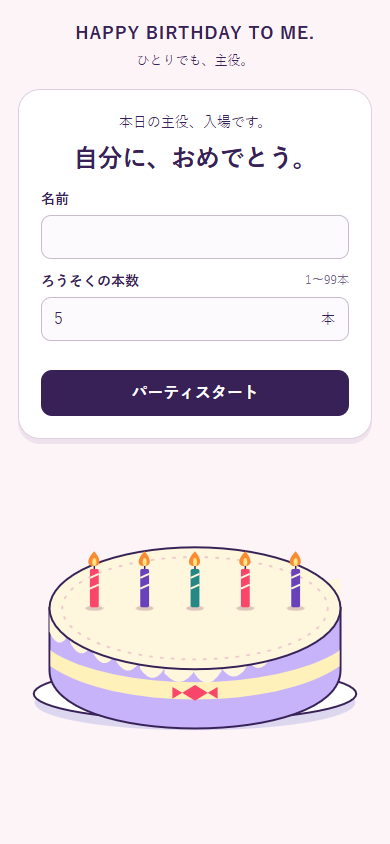
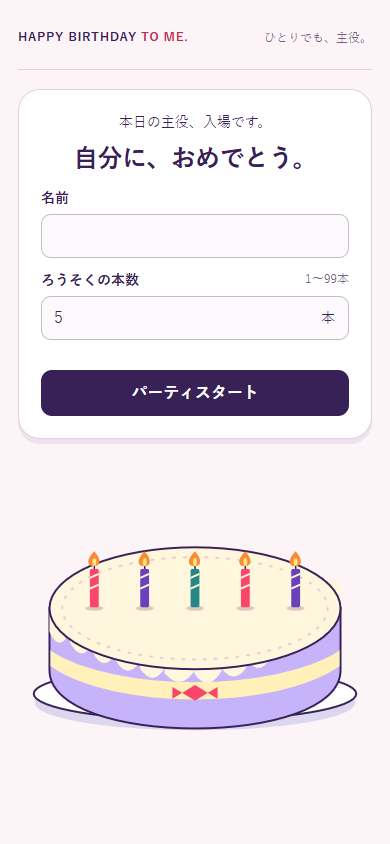
Restore original title and tagline presentation

diff --git a/dist/style.css b/dist/style.css
@@ -17,9 +17,11 @@ button:disabled { cursor: default; }
 button:focus-visible, input:focus-visible { outline: 3px solid var(--purple); outline-offset: 3px; }
 [hidden] { display: none !important; }
 .party { width: min(100%, 430px); margin: auto; padding: max(22px, env(safe-area-inset-top)) 18px max(14px, env(safe-area-inset-bottom)); }
-.brand { text-align: center; margin-bottom: 19px; }
-.brand h1 { margin: 0; font-size: 17px; font-weight: 900; letter-spacing: .055em; line-height: 1.4; }
-.brand p { font-size: 13px; margin: 5px 0 0; line-height: 1.5; }
+.brand { display: flex; justify-content: space-between; align-items: center; gap: 12px; min-height: 48px; padding-bottom: 16px; border-bottom: 1px solid #dfd0e0; margin-bottom: 19px; }
+.brand h1 { margin: 0; font-size: 12px; font-weight: 900; letter-spacing: .06em; line-height: 1.4; }
+.brand h1 span { color: #bf2850; }
+.brand p { flex-shrink: 0; font-size: 12px; color: #6f617d; margin: 0; line-height: 1.5; }
+@media (min-width: 701px) { .brand h1 { font-size: 14px; } .brand p { font-size: 13px; } }
 .message-card { position: relative; height: 350px; padding: 22px; border: 1px solid #dfd0e0; border-radius: 22px; background: #fff; box-shadow: 0 5px 0 #eee2ec; }
 #setup { height: 100%; display: flex; flex-direction: column; gap: 12px; }
 .card-heading { text-align: center; }

diff --git a/dist/index.html b/dist/index.html
@@ -12,7 +12,7 @@
 </head>
 <body>
   <main class="party">
-    <div class="brand"><h1>HAPPY BIRTHDAY TO ME.</h1><p>ひとりでも、主役。</p></div>
+    <div class="brand"><h1>HAPPY BIRTHDAY <span>TO ME.</span></h1><p>ひとりでも、主役。</p></div>
     <section class="message-card" aria-label="誕生日の準備とメッセージ">
       <form id="setup" autocomplete="off">
         <div class="card-heading"><p>本日の主役、入場です。</p><h2>自分に、おめでとう。</h2></div>
